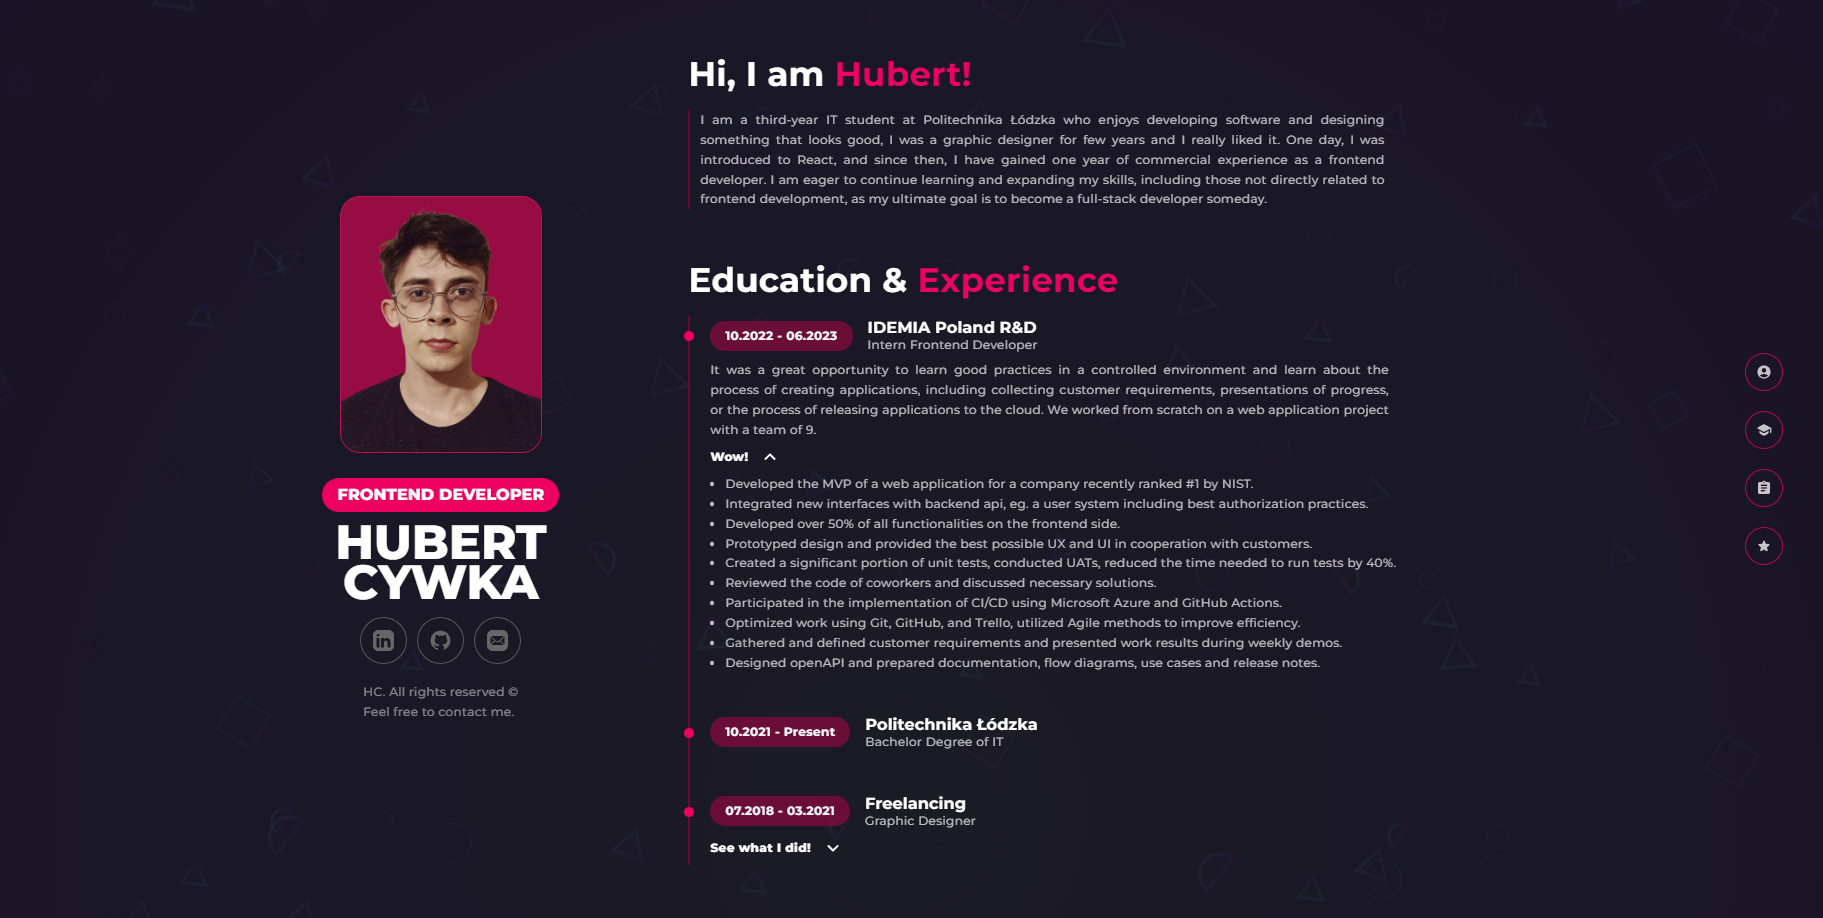
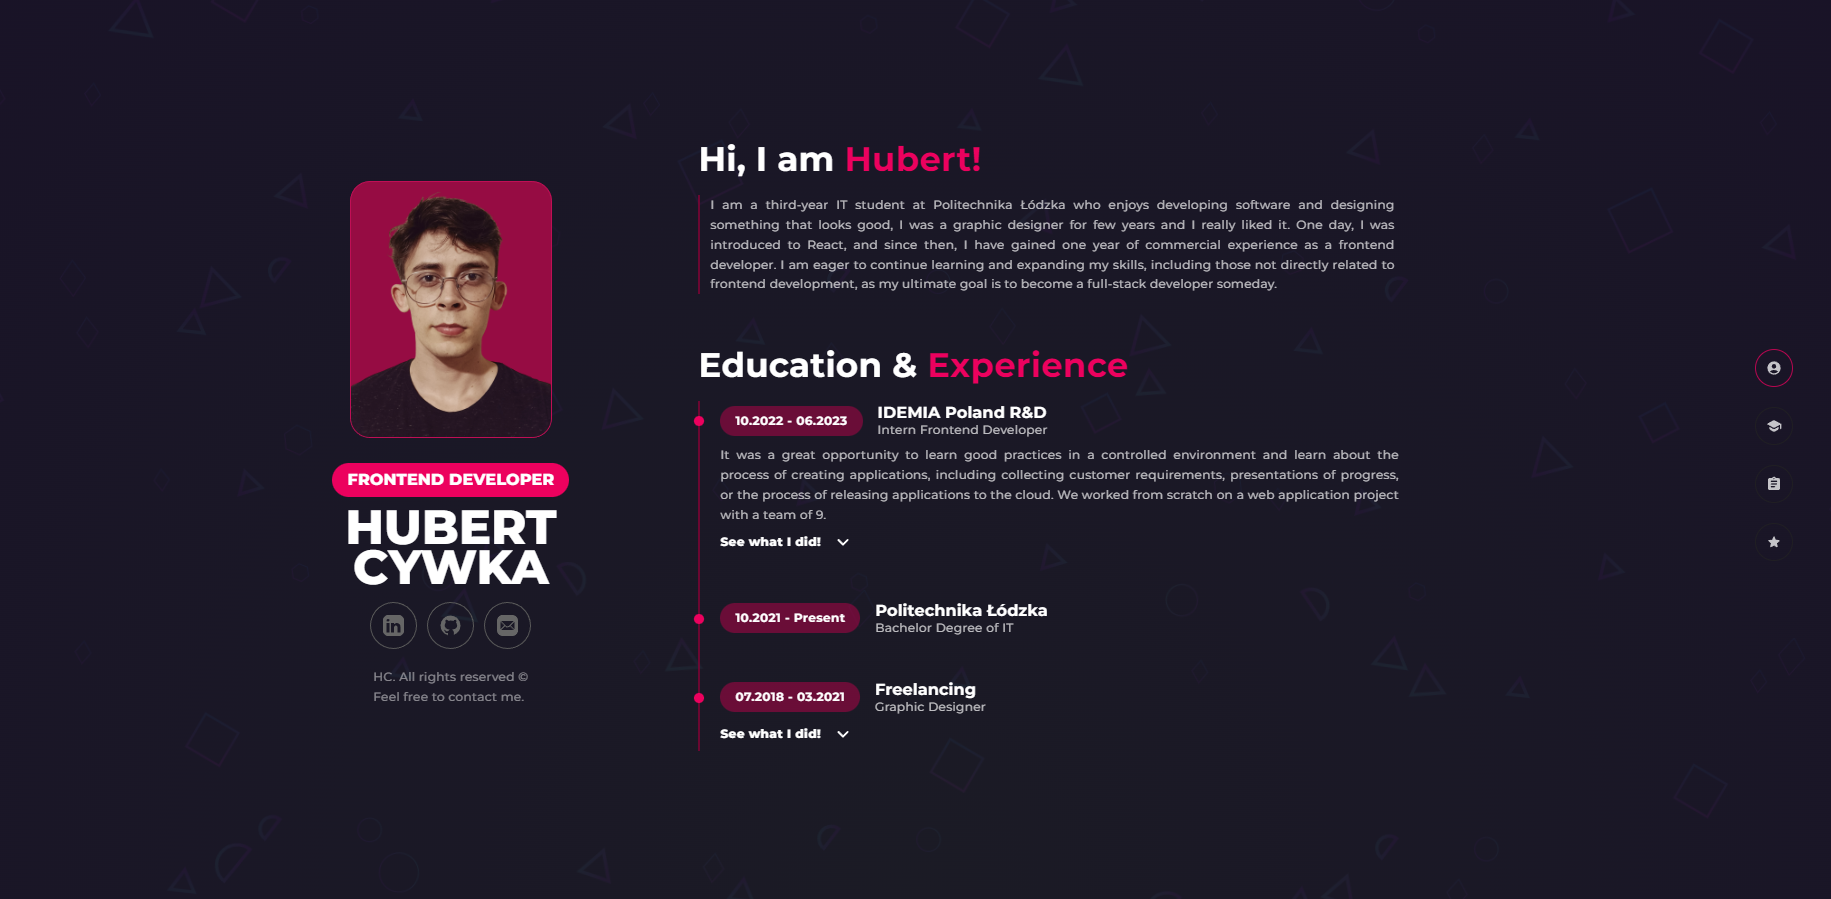
P-48: Better highlight of active section on navbar

diff --git a/src/components/navigation/section-header/SectionHeader.tsx b/src/components/navigation/section-header/SectionHeader.tsx
@@ -1,5 +1,5 @@
 import { Box, Typography } from '@mui/material';
-import { RefObject } from 'react';
+import { memo, RefObject } from 'react';
 import './SectionHeader.scss';
 import classNames from 'classnames';
 
@@ -26,4 +26,4 @@ const SectionHeader = ({ headerText, reference, reduceTopMargin }: SectionHeader
   );
 };
 
-export default SectionHeader;
+export default memo(SectionHeader);

diff --git a/src/components/navigation/navbar/Navbar.scss b/src/components/navigation/navbar/Navbar.scss
@@ -43,7 +43,8 @@
     display: flex;
     cursor: pointer;
     opacity: 0.75;
-    transition: 0.2s;
+    transition: 0.35s;
+    border-color: $gray;
 
     &.active {
       border-color: $primary-light;
@@ -55,6 +56,7 @@
 
     &:hover {
       opacity: 1;
+      border-color: $primary-light;
     }
   }
 }
